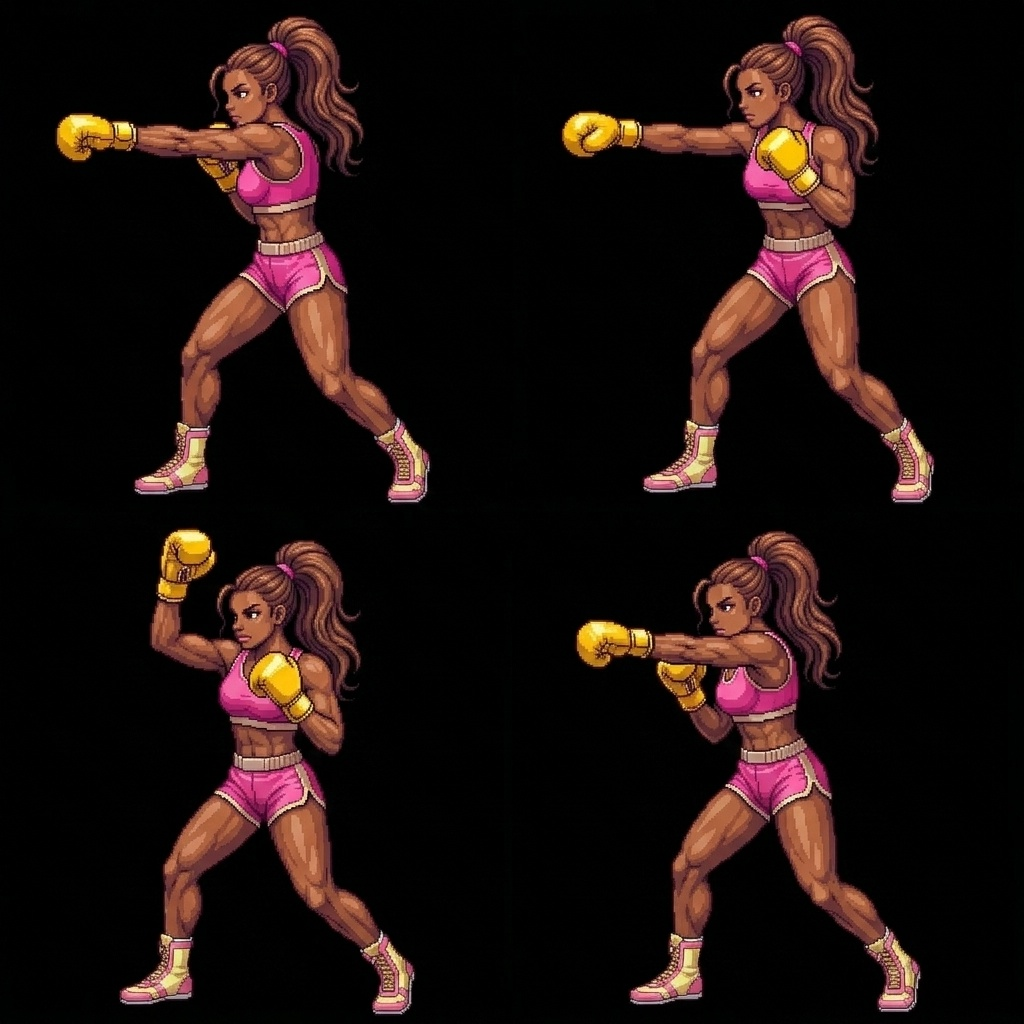
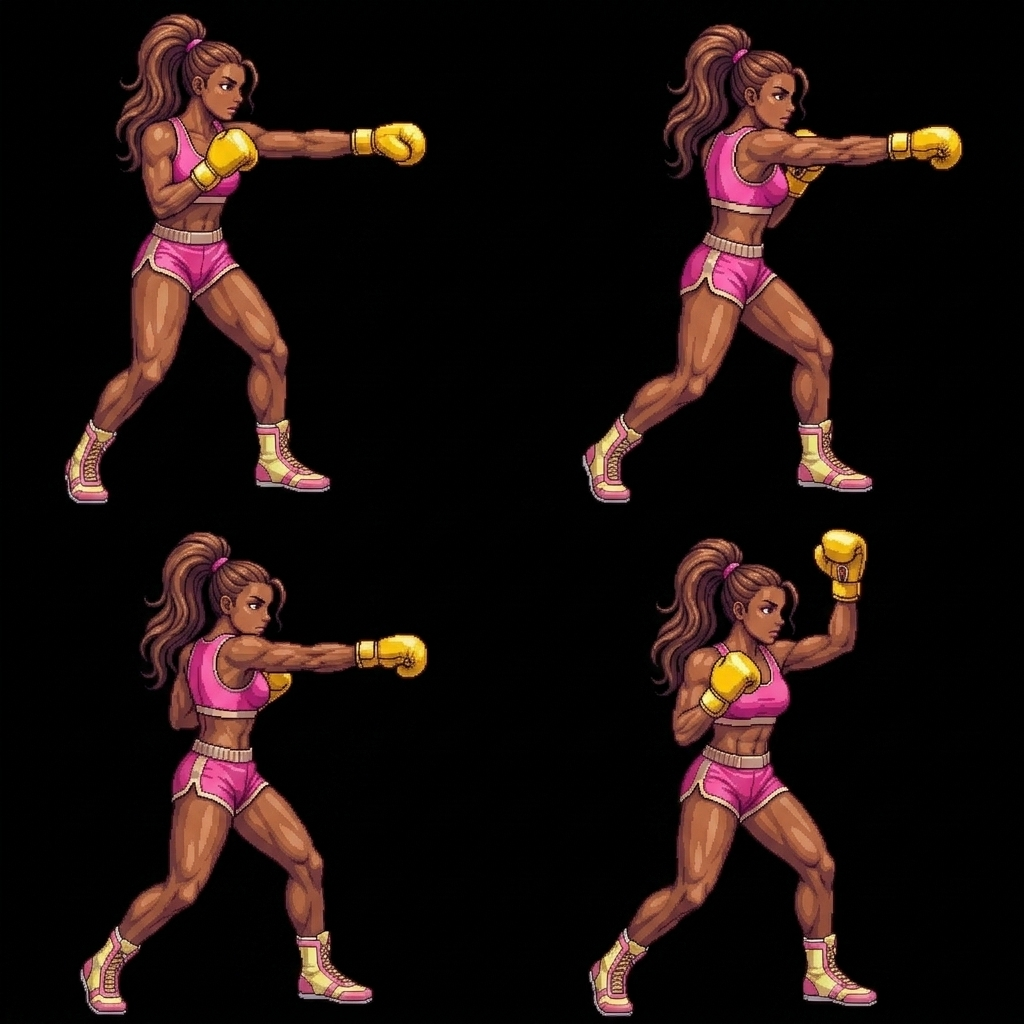
fix: regenerate deen and chrisean punches to fix broken AI anatomy, flip deen to face left

Changed region(s): [[0.0312, 0.0, 0.4375, 1.0], [0.5312, 0.0, 0.9375, 1.0]]

diff --git a/test_sprites.html b/test_sprites.html
@@ -15,8 +15,8 @@
       document.write(`
         <div class="row">
           <div class="label">${id}</div>
-          <img src="assets/${id}_sprite.jpg?v=7" alt="${id} idle" />
-          <img src="assets/${id}_punches.jpg?v=7" alt="${id} punches" />
+          <img src="assets/${id}_sprite.jpg?v=8" alt="${id} idle" />
+          <img src="assets/${id}_punches.jpg?v=8" alt="${id} punches" />
         </div>
       `);
     });
